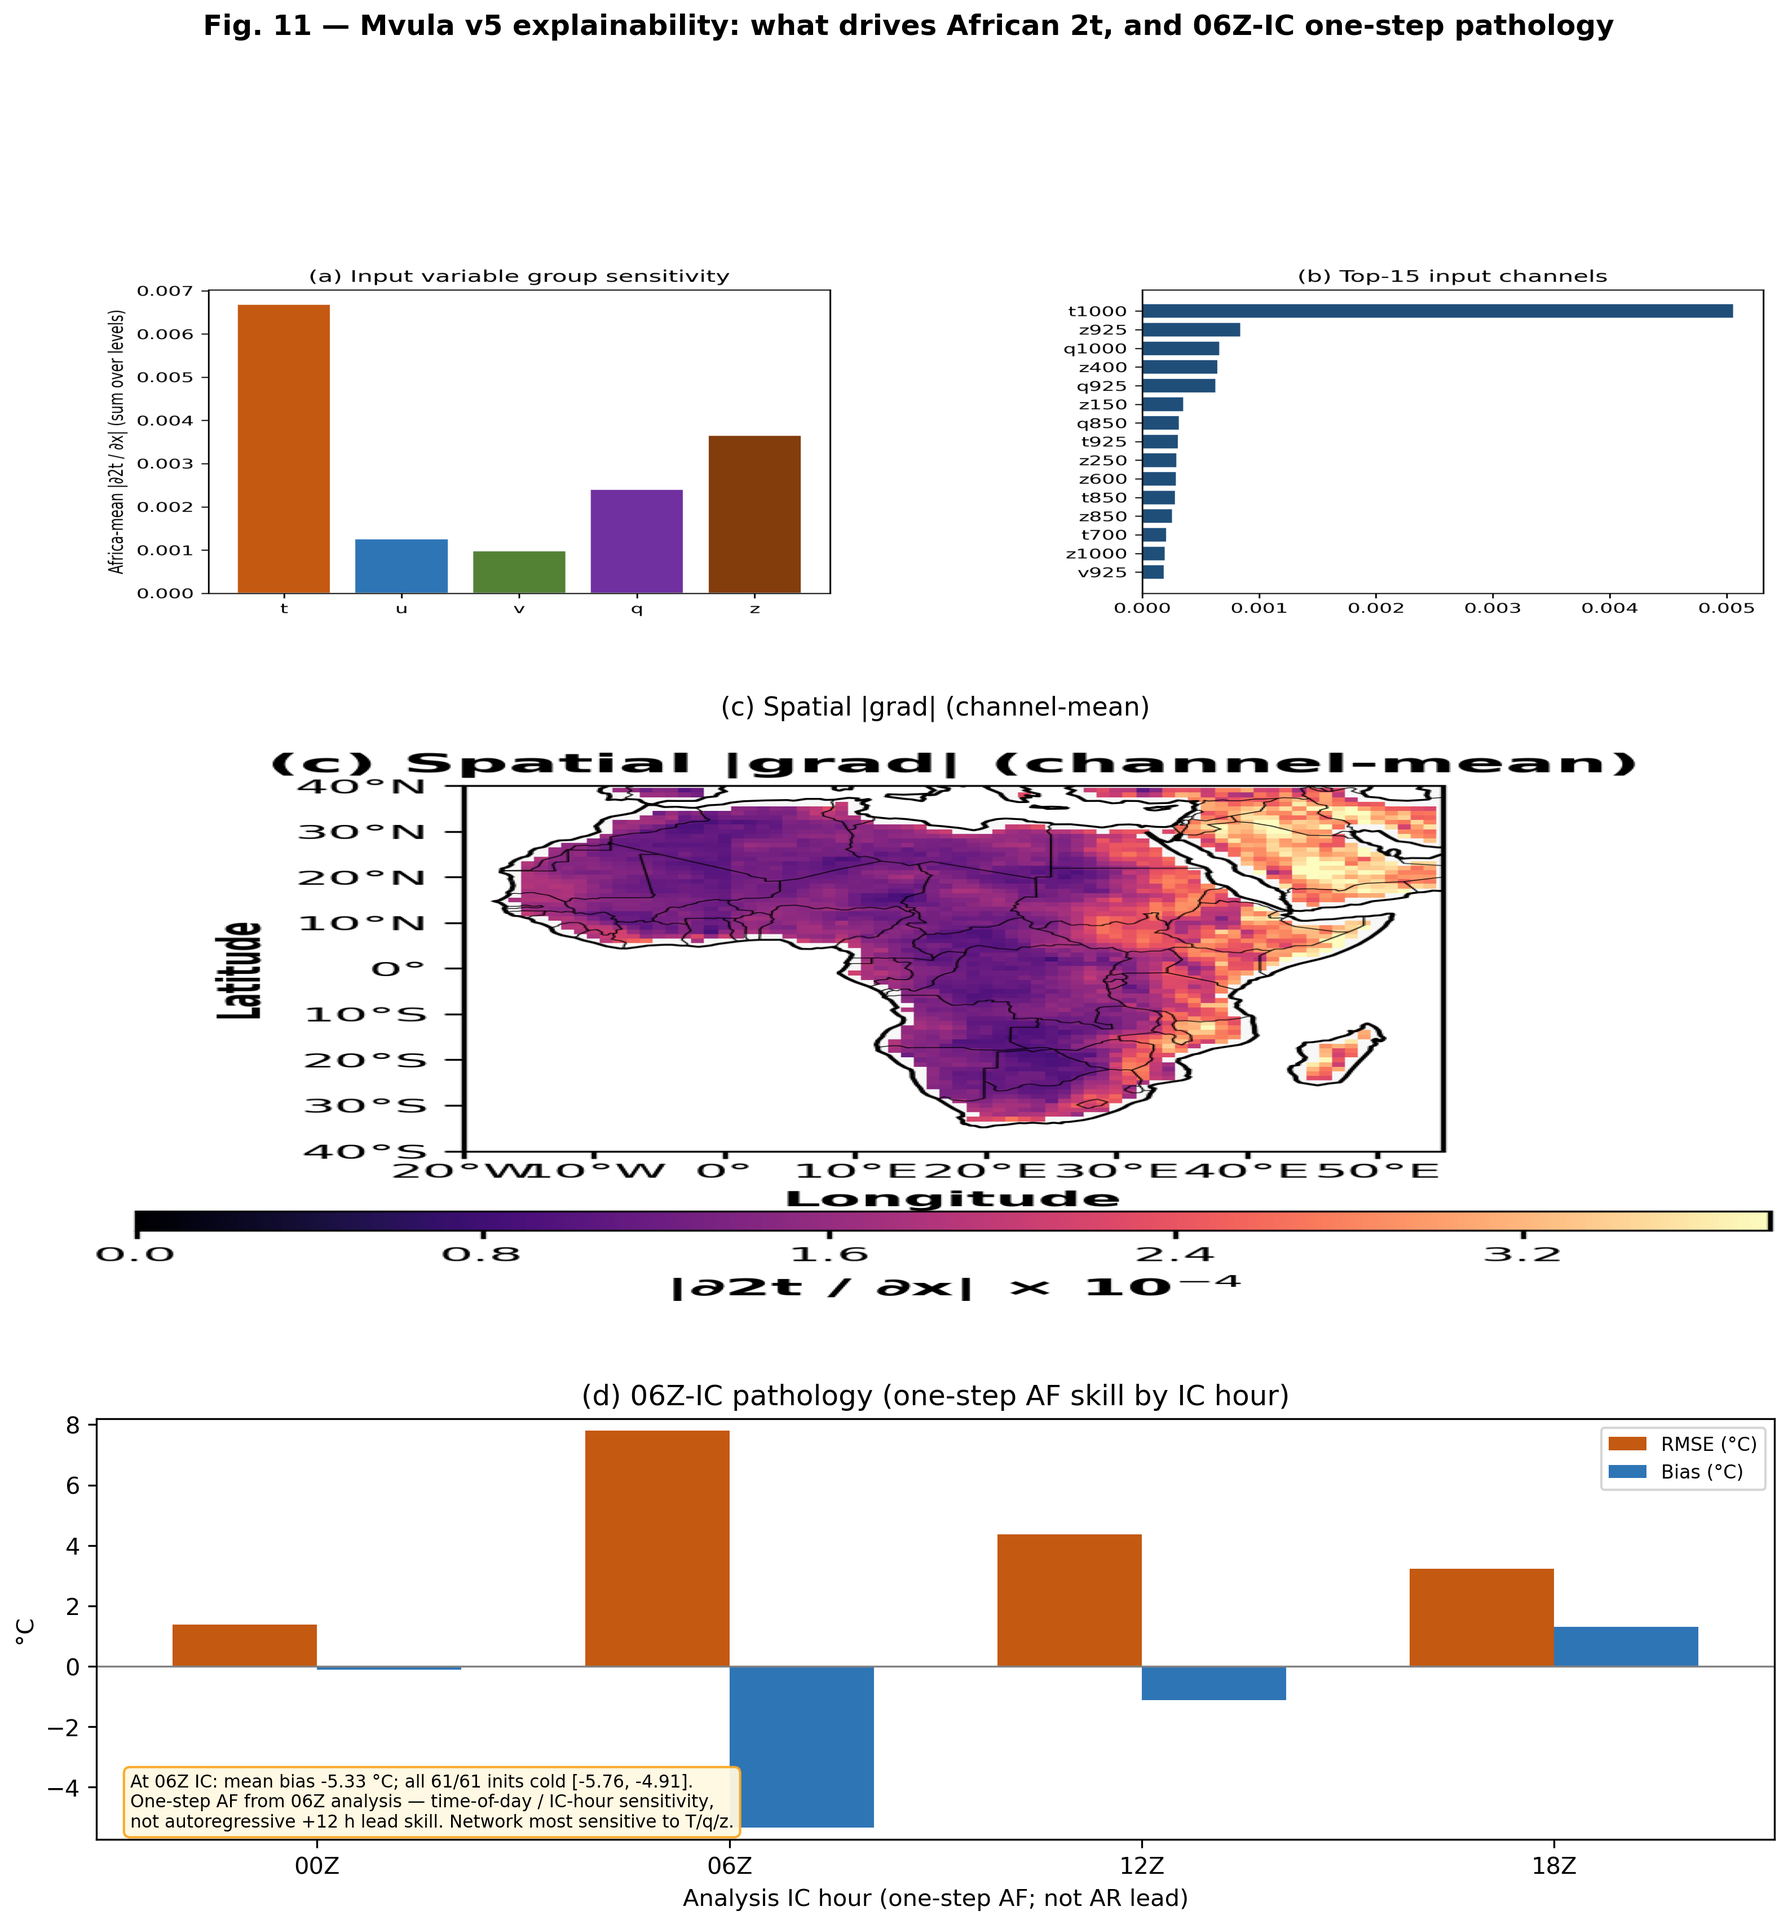
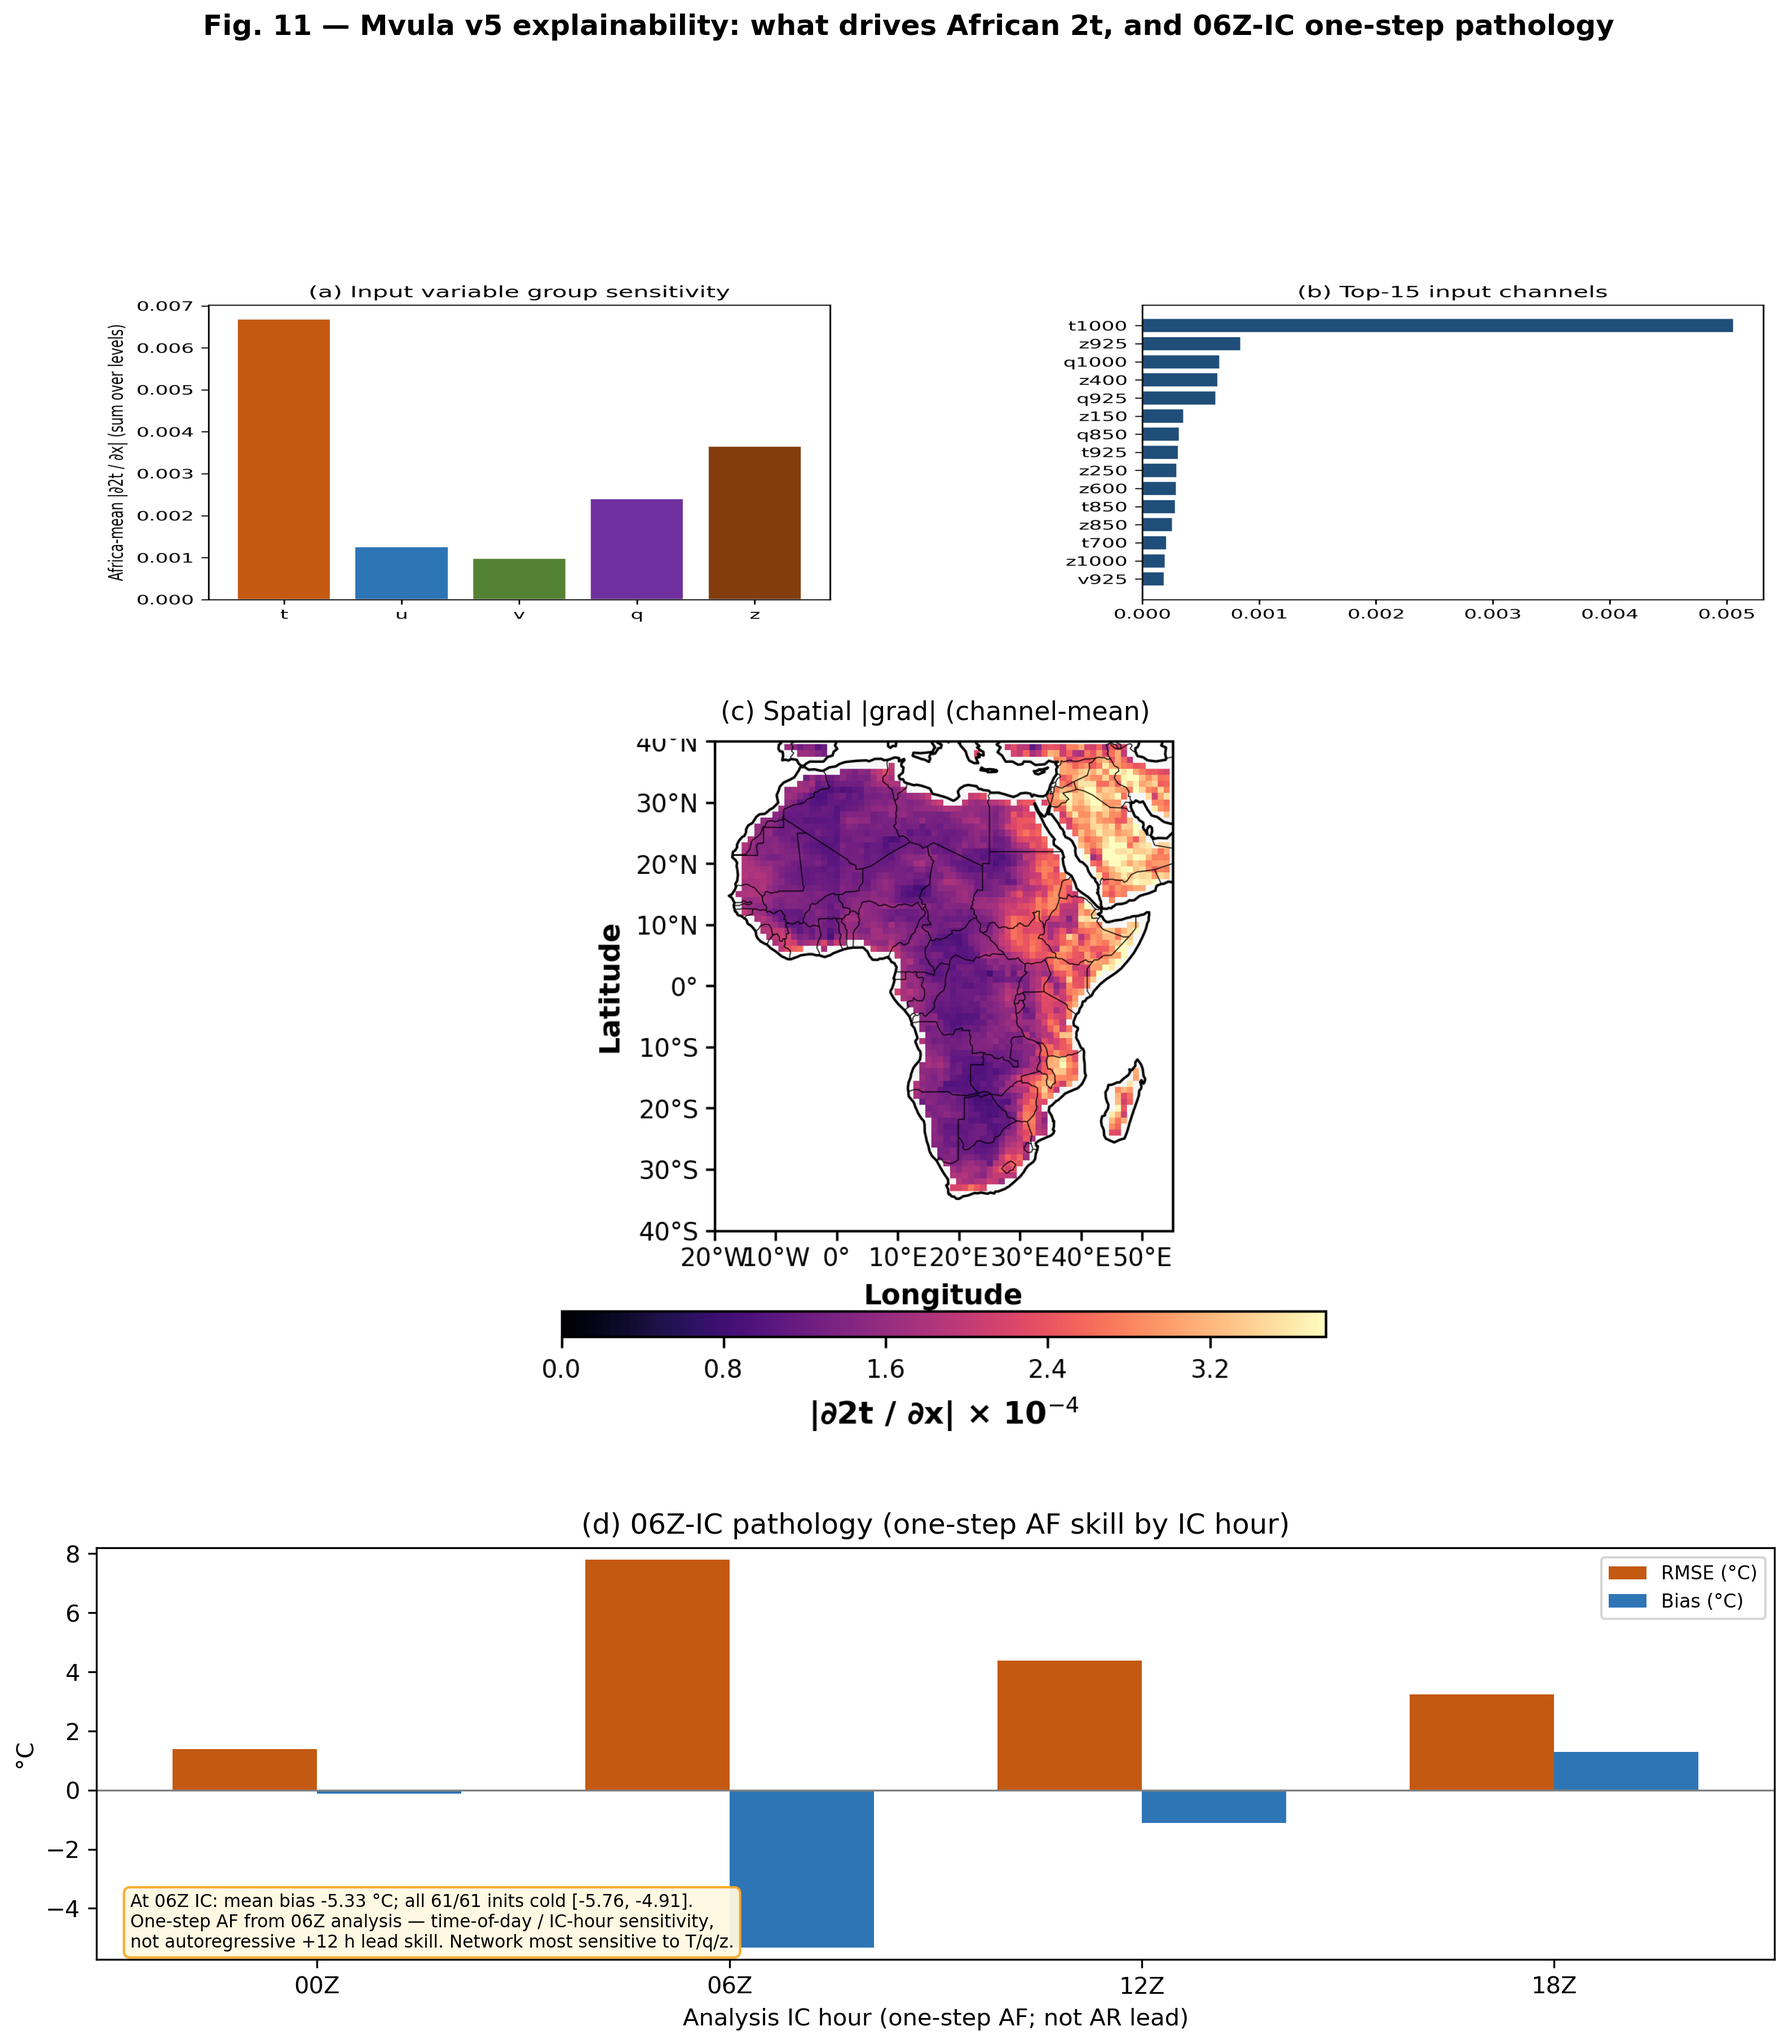
Make Fig. 11 panel (c) taller and keep map aspect.
Use a taller middle row with equal aspect so the Africa saliency map is larger and not squashed.

diff --git a/scripts/plot_mvula_xai_attribution.py b/scripts/plot_mvula_xai_attribution.py
@@ -345,15 +345,15 @@ def refresh_fig11_ic_framing() -> None:
     if ys.size and xs.size:
         y0, y1 = int(ys.min()), int(ys.max()) + 1
         x0, x1 = int(xs.min()), int(xs.max()) + 1
-        y0 = y0 + int(0.10 * (y1 - y0))  # skip residual title text
+        y0 = y0 + int(0.18 * (y1 - y0))  # skip residual title text
         crops["c"] = c[y0:y1, x0:x1]
 
-    fig = plt.figure(figsize=(12.8, 12.2), dpi=200)
+    fig = plt.figure(figsize=(12.8, 13.0), dpi=200)
     gs = fig.add_gridspec(
         3,
         2,
-        height_ratios=[1.0, 1.55, 1.15],
-        hspace=0.26,
+        height_ratios=[0.95, 1.85, 1.10],
+        hspace=0.24,
         wspace=0.18,
     )
     ax_a = fig.add_subplot(gs[0, 0])
@@ -363,7 +363,7 @@ def refresh_fig11_ic_framing() -> None:
     ax_b.imshow(crops["b"], aspect="auto")
     ax_b.axis("off")
     ax_c = fig.add_subplot(gs[1, :])
-    ax_c.imshow(crops["c"], aspect="auto")
+    ax_c.imshow(crops["c"], aspect="equal")
     ax_c.set_title("(c) Spatial |grad| (channel-mean)", fontsize=11, pad=8)
     ax_c.axis("off")
     ax3 = fig.add_subplot(gs[2, :])
